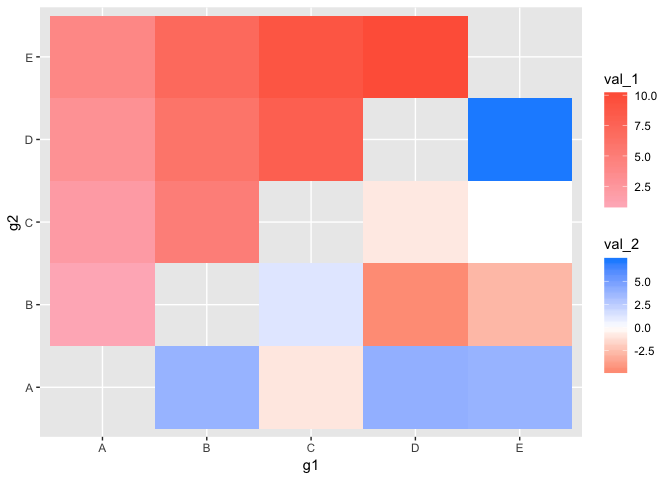
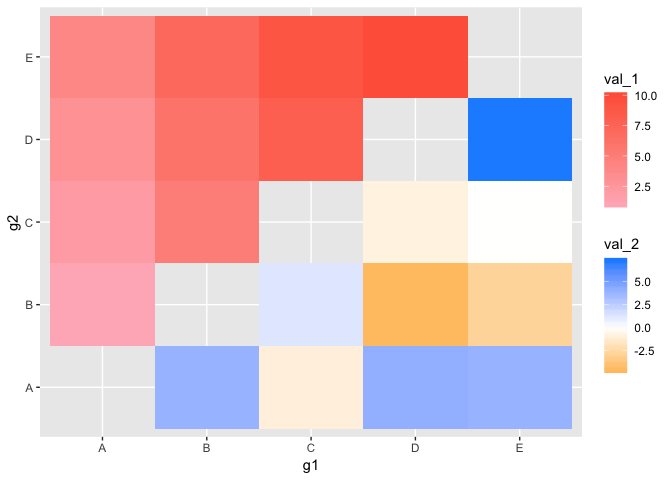
fix: rebuild README.md

Changed region(s): [[0.5312, 0.5312, 0.875, 0.7188], [0.875, 0.7188, 0.9375, 0.7812]]

diff --git a/README.md b/README.md
@@ -39,6 +39,7 @@ tib <- tibble(g1 = c("A", "A", "A", "A", "B", "B", "B", "C", "C", "D"),
               g2 = c("B", "C", "D", "E", "C", "D", "E", "D", "E", "E"),
               val_1 = seq(1, 10, 1),
               val_2 = rnorm(10, mean = 0, sd = 3))
+tib <- asymmetrise(tib, g1, g2)
 ggplot(tib) +
     geom_asymmat(aes(x = g1, y = g2, fill_tl = val_1, fill_br = val_2)) +
     scale_fill_tl_gradient(low = "lightpink", high = "tomato") +
@@ -53,7 +54,7 @@ The new aesthetics `fill_tl` and `fill_br` behave just like the normal `fill`, e
 ggplot(tib) +
     geom_asymmat(aes(x = g1, y = g2, fill_tl = val_1, fill_br = val_2)) +
     scale_fill_tl_gradient(low = "lightpink", high = "tomato") +
-    scale_fill_br_gradient2(low = "tomato", mid = "white", high = "dodgerblue")
+    scale_fill_br_gradient2(low = "orange", mid = "white", high = "dodgerblue")
 ```
 
 ![](README_files/figure-markdown_github/unnamed-chunk-4-1.png)
